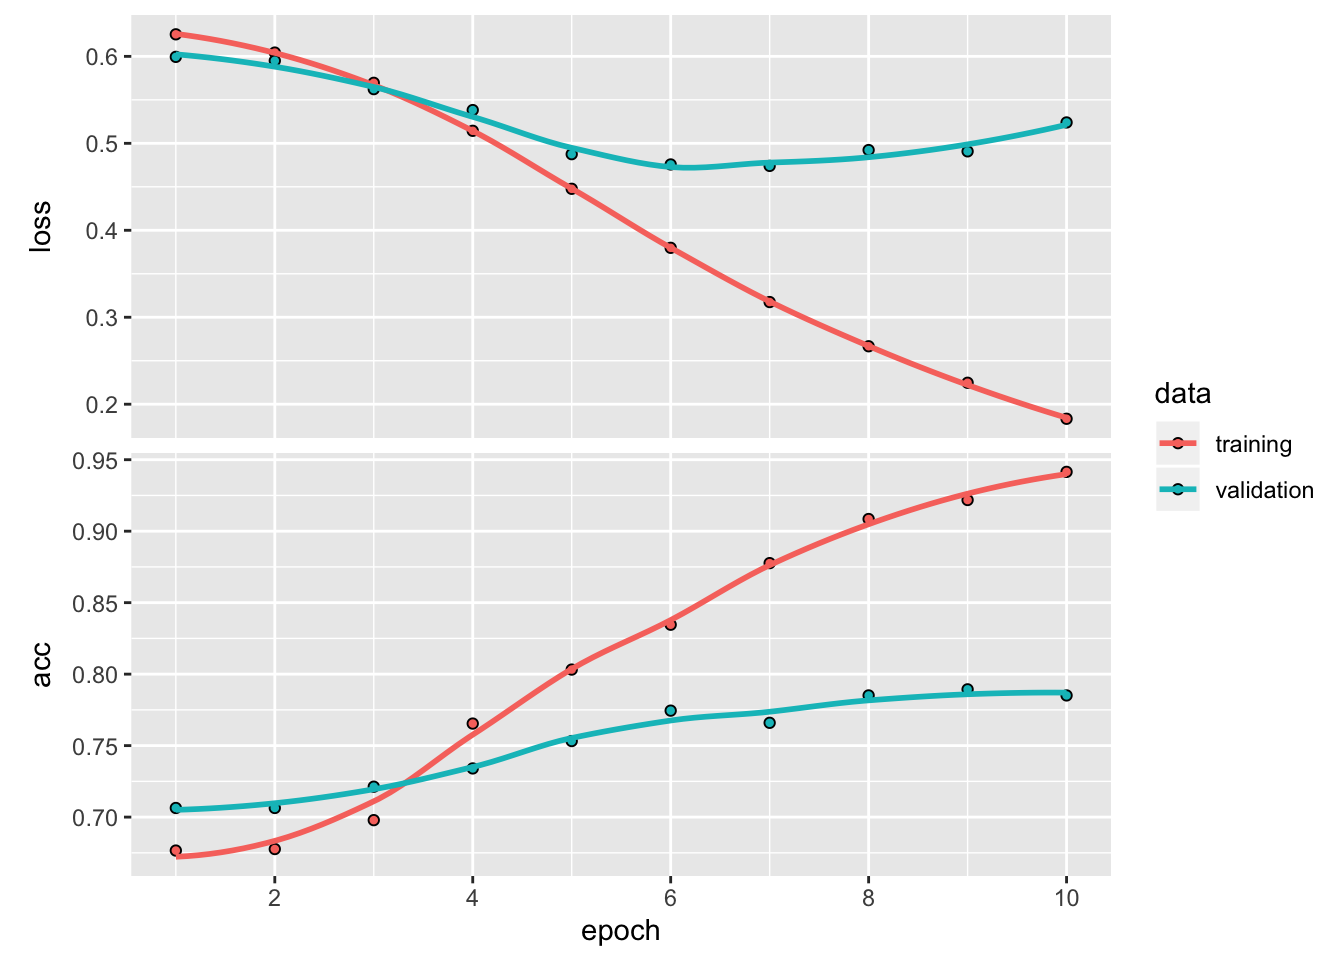
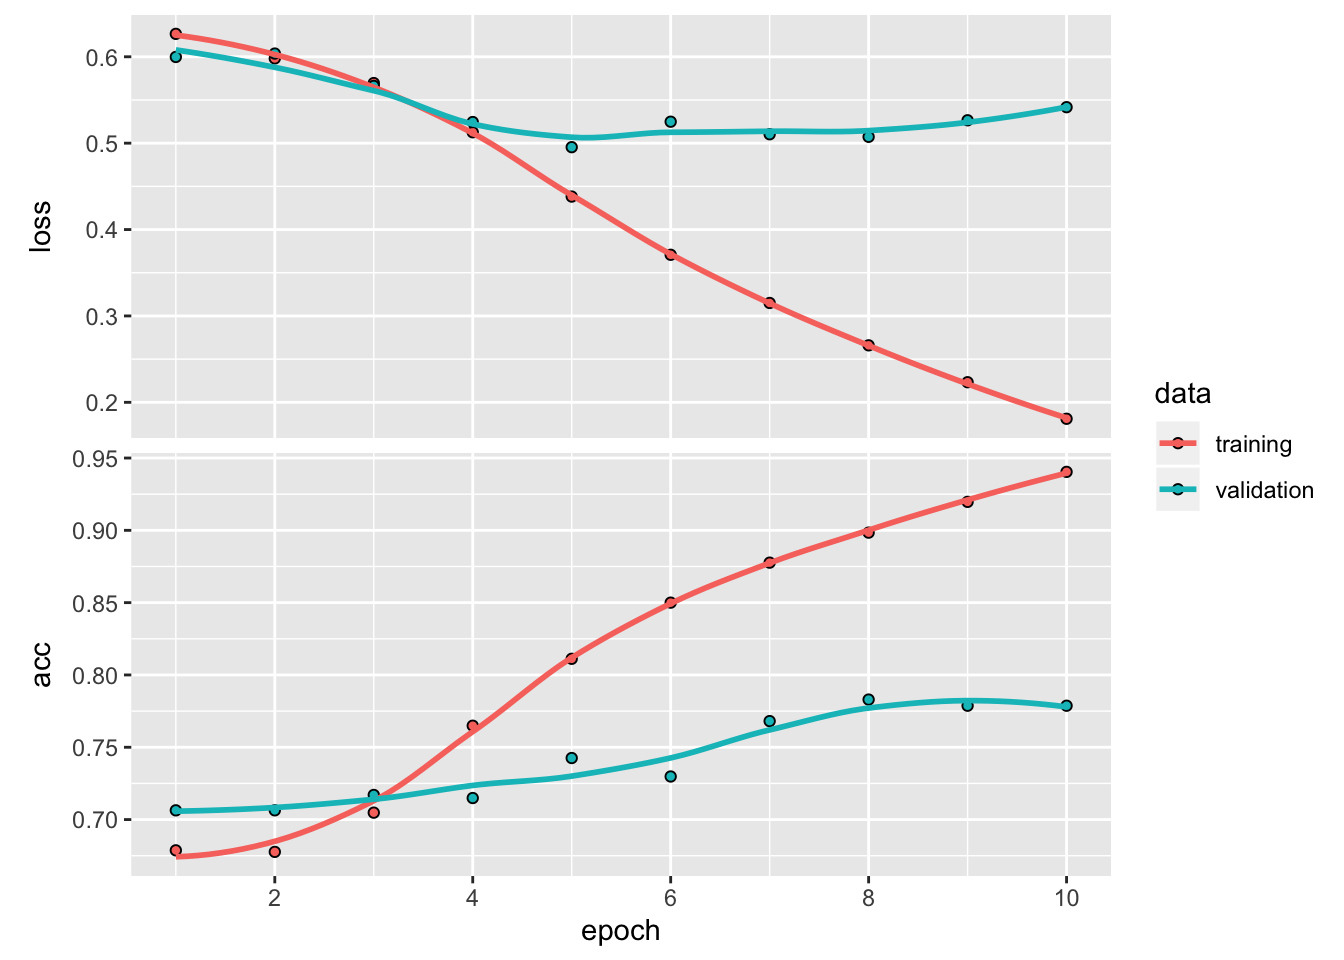
update post

diff --git a/content/post/2019-04-26-grand-floridian-hotel-reviews.html b/content/post/2019-04-26-grand-floridian-hotel-reviews.html
@@ -15,8 +15,6 @@ tags:
 
 <div id="grand-floridian-hotel-reviews-sentiment-analysis-and-nlp" class="section level2">
 <h2>Grand Floridian Hotel Reviews: Sentiment Analysis and NLP</h2>
-<p>The data for this analysis was obtained from the reviews posted on TripAdvisor. I used RSelenium and rvest to extract the data from the first 3000 dynamic web-pages on the TripAdvisor site, which was 2,350 reviews in total. The code used to do this is published on my GitHub <a href="https://github.com/mikaylaedwards/gf_reviews/blob/master/gf_reviews.Rmd">here</a></p>
-<p>Here, I load the the Rda file I saved from that extraction.</p>
 <pre class="r"><code>library(tidyverse)
 library(zoo)
 library(knitr)
@@ -24,14 +22,7 @@ library(tidytext)
 library(SnowballC)
 library(keras)
 library(kableExtra)</code></pre>
-<p>This is the raw version of the data as obtained from the site: it has the text content of the review, the star rating (1-5), and the date of stay (month/year).</p>
-<pre class="r"><code>#load data
-rdf&lt;-readRDS(&quot;first_3000.Rda&quot;)
-str(rdf)</code></pre>
-<pre><code>## &#39;data.frame&#39;:    2350 obs. of  3 variables:
-##  $ rating : int  5 5 5 5 5 3 5 5 4 5 ...
-##  $ id_date: Factor w/ 75 levels &quot;Date of stay: April 2019&quot;,..: 1 3 2 2 2 1 2 2 2 3 ...
-##  $ reviews: Factor w/ 2344 levels &quot;Family Vacation dreams come true.  We have always wanted to stay at Grand Floridian and this time we finally we&quot;| __truncated__,..: 4 3 1 2 5 10 7 9 6 8 ...</code></pre>
+<p>This is the raw version of the reviews data: it has the text content of the review, the star rating (1-5), and the date of stay (month/year).</p>
 <p>It requires a bit of cleaning to get in the form we want.</p>
 <pre class="r"><code>#rename &amp; change variable type
 rdf &lt;- rdf %&gt;% rename(stay_date = id_date,
@@ -400,10 +391,10 @@ model %&gt;% summary()</code></pre>
 print(hist)</code></pre>
 <pre><code>## Trained on 1,880 samples, validated on 470 samples (batch_size=32, epochs=10)
 ## Final epoch (plot to see history):
-## val_loss: 0.524
-##  val_acc: 0.7851
-##     loss: 0.1833
-##      acc: 0.9415</code></pre>
+## val_loss: 0.5416
+##  val_acc: 0.7787
+##     loss: 0.181
+##      acc: 0.9404</code></pre>
 <pre class="r"><code>plot(hist)</code></pre>
 <p><img src="/post/2019-04-26-grand-floridian-hotel-reviews_files/figure-html/unnamed-chunk-22-1.png" width="672" />
 The training loss decreases with each epoch, while the accuracy increases. However, the validation data does not show this same trend, which indicates that we are overfitting. The right number of epochs appears to be 6. Considering the fact that we only use the 1000 most common words and cut reviews off at 100 words, our model is fairly accurate (peaking at around 80% on the validation set). However, we can likely increase this by increasing the feature space and length of review considered.</p>
@@ -443,10 +434,10 @@ model %&gt;% compile(
 print(hist)</code></pre>
 <pre><code>## Trained on 1,880 samples, validated on 470 samples (batch_size=32, epochs=10)
 ## Final epoch (plot to see history):
-## val_loss: 0.4669
+## val_loss: 0.4595
 ##  val_acc: 0.8
-##     loss: 0.159
-##      acc: 0.9489</code></pre>
+##     loss: 0.1623
+##      acc: 0.9484</code></pre>
 <pre class="r"><code>plot(hist)</code></pre>
 <p><img src="/post/2019-04-26-grand-floridian-hotel-reviews_files/figure-html/unnamed-chunk-25-1.png" width="672" /></p>
 <p>Again, 6 appears to be the right number of epochs–beyond this we are overfitting. Although validation accuracy improves to about 84% (a 4% increase from the previous model), there is a tradeoff in that this model takes more than 2 times the amount of time to train. If rapid classification is necessary, the smaller feature space performance may be sufficient.</p>
